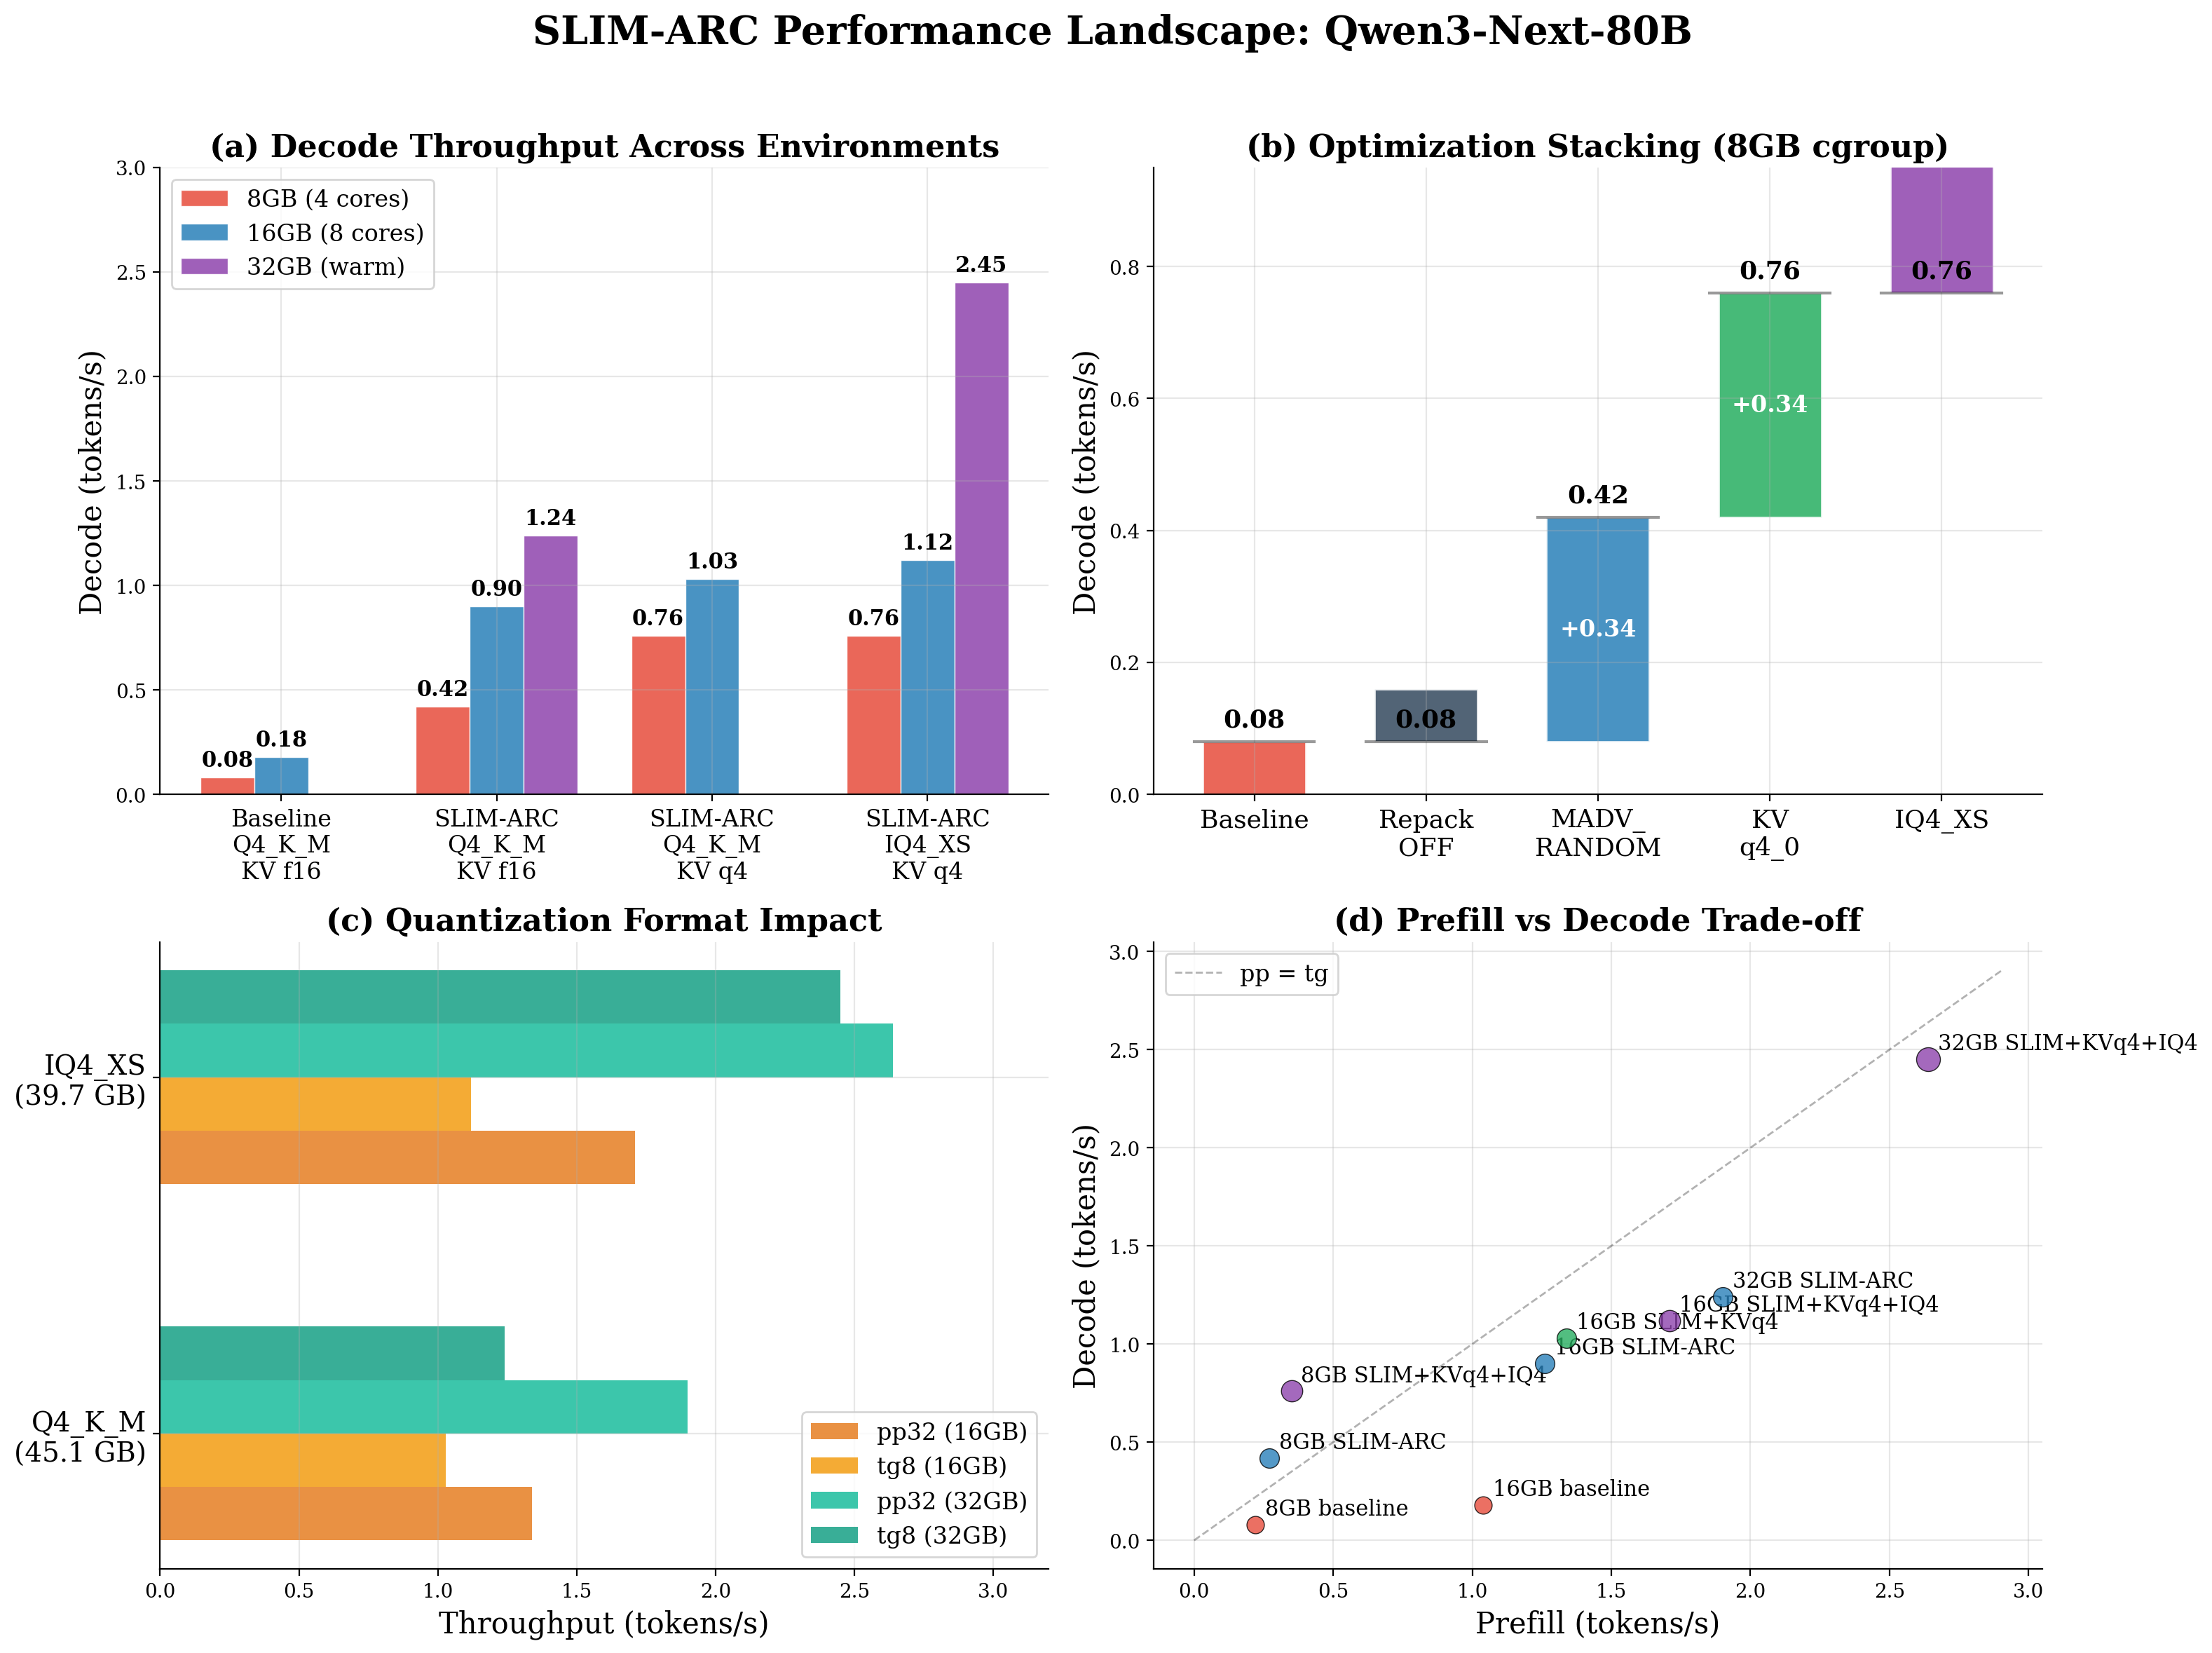
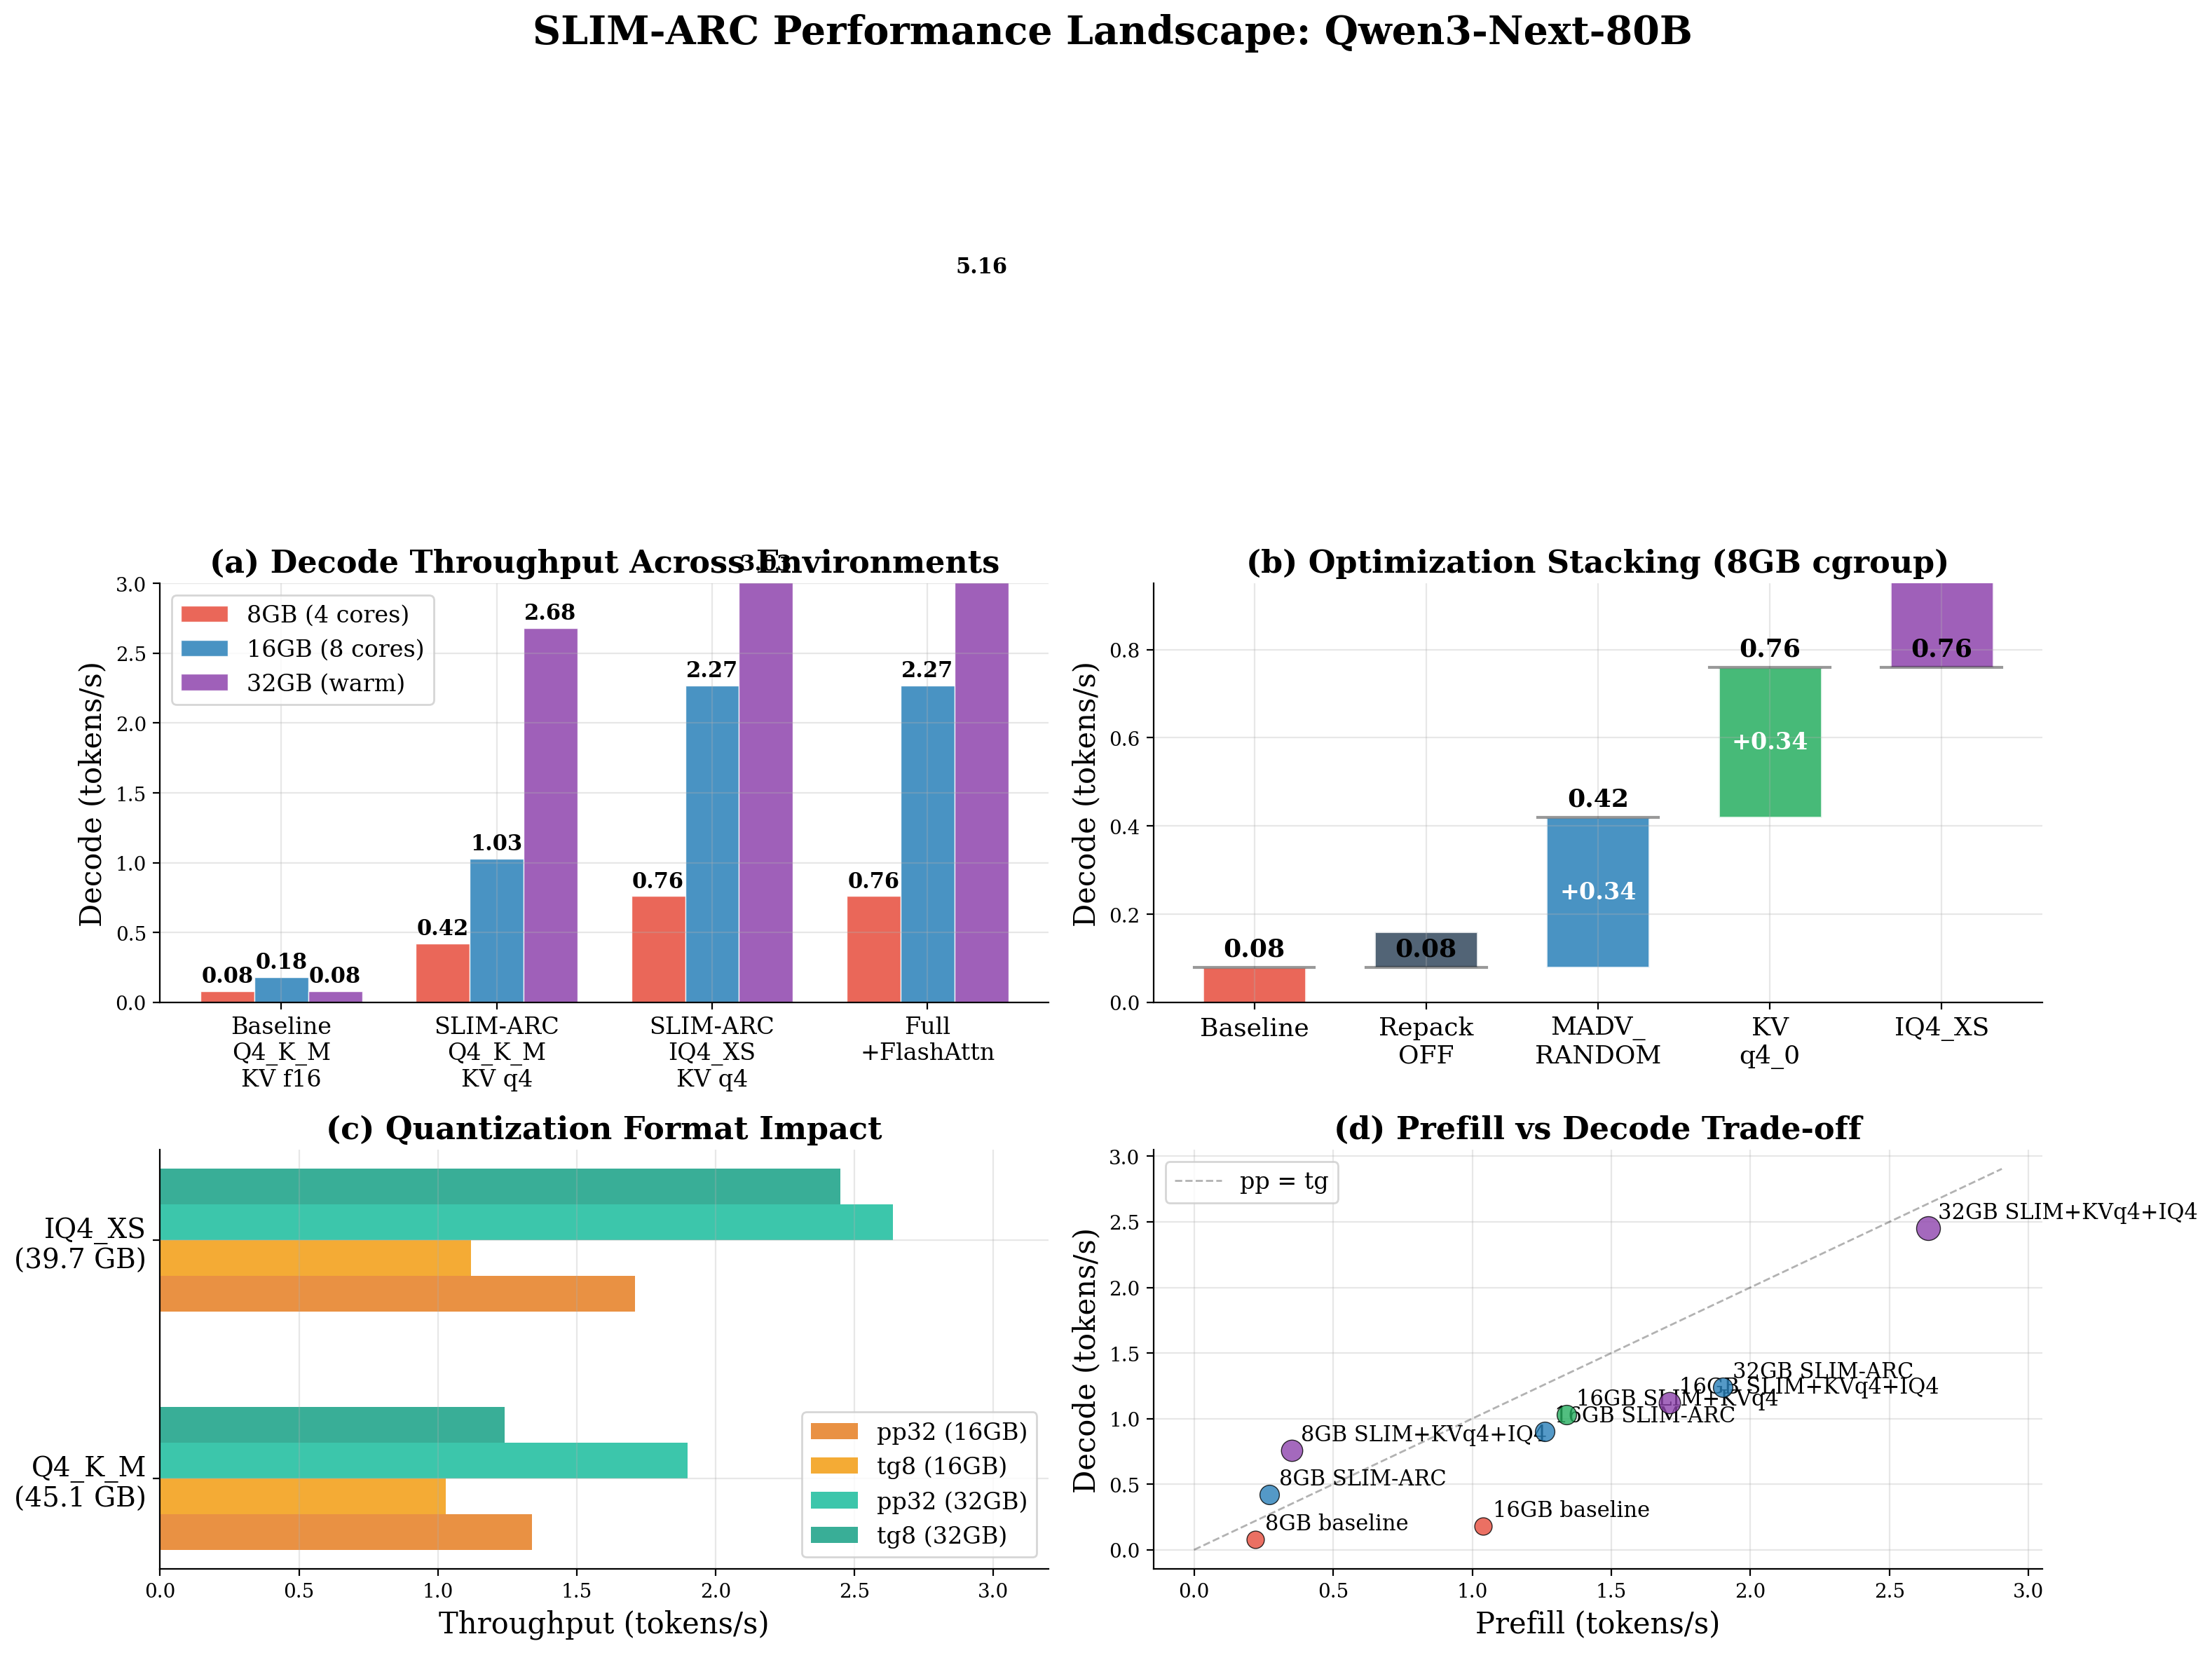
:memo: docs: round-6 fixes (font scope, abstract, hierarchy, itemize, data)
1. Font: {\CJKfontspec{...}芃} scoped to only 芃, not affecting 马福泉/刘昊
2. Title: 面向端侧 Agent 的内存感知 MoE 大模型推理协同优化
3. Abstract: remove negative GSM8K data, add positive (75% accuracy, 71.4% FA, -43% MADV)
4. Hierarchy: downgrade 8 subsubsection -> paragraph under new subsubsection structure
5. Future work: use itemize for 6 directions
6. Landscape figure: update data to new serial cold-start results
PDF 31 pages, 0 undefined citations

diff --git a/reports/Competition_Report/sections/06_conclusion.tex b/reports/Competition_Report/sections/06_conclusion.tex
@@ -35,4 +35,15 @@
 
 \subsection{未来展望}
 
-由于初赛时间紧迫，SLIM-ARC 的部分工作尚未完善。在决赛阶段，我们将参考 \texttt{docs/others/赛题与学习路径.pdf} 和 \texttt{docs/others/INIT\_PROMPT.md} 中的初始规划，重点推进以下方向：\textbf{超参数机器学习联调}——当前各优化的超参数（MADV 阈值 6\,GB、KV window/sink、prefetch window、IQ4\_XS vs Q4\_K\_M 选择）为手动设置，决赛将用贝叶斯优化/网格搜索在多档环境下自动搜索最优组合，预期可进一步挖掘 10--20\% 的协同增益；完成 KV eviction manager 与推理流程的深度集成，实现基于注意力分数的 KV Block 级别驱逐和跨层投机预取（参考 SolidAttention~\cite{solidattention2026}的 block-wise sparsity 和 81\% 跨层选择相似性）；探索更激进的模型量化（Q2\_K/IQ2\_XXS，$\sim$22--28\,GB）以彻底消除 8\,GB 环境的数据波动；实现 Tile 级微流水线和融合反量化，将权重张量切分为对齐 L2/L3 cache 行的 Tile，I/O 线程与计算线程重叠执行；完成统一调度器在权重预取 + KV 换页 + 专家预取三路竞争下的协同验证；以及探索端侧 Agent 场景的语义缓存和 edge-cloud 协同（参考综述~\cite{survey2026}Sec 4.5 的 ECCC 框架），实现 84\% hit rate 的上下文摘要替代原始 KV。我们相信，通过操作系统虚拟内存机制与 MoE 稀疏性的深度协同，端侧大模型推理的“内存墙”问题将得到系统性解决。
+由于初赛时间紧迫，SLIM-ARC 的部分工作尚未完善。在决赛阶段，我们将参考 \texttt{docs/others/赛题与学习路径.pdf} 和 \texttt{docs/others/INIT\_PROMPT.md} 中的初始规划，重点推进以下方向：
+
+\begin{itemize}
+    \item \textbf{超参数机器学习联调}：当前各优化的超参数（MADV 阈值 6\,GB、KV window/sink、prefetch window、IQ4\_XS vs Q4\_K\_M 选择）为手动设置，决赛将用贝叶斯优化/网格搜索在多档环境下自动搜索最优组合，预期可进一步挖掘 10--20\% 的协同增益。
+    \item \textbf{KV eviction 深度集成}：完成 KV eviction manager 与推理流程的深度集成，实现基于注意力分数的 KV Block 级别驱逐和跨层投机预取（参考 SolidAttention~\cite{solidattention2026}的 block-wise sparsity 和 81\% 跨层选择相似性）。
+    \item \textbf{更激进的模型量化}：探索 Q2\_K/IQ2\_XXS（$\sim$22--28\,GB）以彻底消除 8\,GB 环境的数据波动。
+    \item \textbf{Tile 级微流水线}：将权重张量切分为对齐 L2/L3 cache 行的 Tile，I/O 线程与计算线程重叠执行，实现融合反量化。
+    \item \textbf{统一调度器协同验证}：完成统一调度器在权重预取 + KV 换页 + 专家预取三路竞争下的协同验证。
+    \item \textbf{端侧 Agent 语义缓存}：探索 edge-cloud 协同（参考综述~\cite{survey2026}Sec 4.5 的 ECCC 框架），实现 84\% hit rate 的上下文摘要替代原始 KV。
+\end{itemize}
+
+我们相信，通过操作系统虚拟内存机制与 MoE 稀疏性的深度协同，端侧大模型推理的"内存墙"问题将得到系统性解决。

diff --git a/reports/Competition_Report/figures/generate_figures_v2.py b/reports/Competition_Report/figures/generate_figures_v2.py
@@ -53,11 +53,11 @@ def fig_performance_landscape():
     
     # --- Panel (a): Three-tier bar chart ---
     ax = axes[0, 0]
-    configs = ['Baseline\nQ4_K_M\nKV f16', 'SLIM-ARC\nQ4_K_M\nKV f16', 'SLIM-ARC\nQ4_K_M\nKV q4', 
-               'SLIM-ARC\nIQ4_XS\nKV q4']
+    configs = ['Baseline\nQ4_K_M\nKV f16', 'SLIM-ARC\nQ4_K_M\nKV q4',
+               'SLIM-ARC\nIQ4_XS\nKV q4', 'Full\n+FlashAttn']
     tg_8gb = [0.08, 0.42, 0.76, 0.76]
-    tg_16gb = [0.18, 0.90, 1.03, 1.12]
-    tg_32gb = [0, 1.24, 0, 2.45]
+    tg_16gb = [0.18, 1.03, 2.27, 2.27]
+    tg_32gb = [0.08, 2.68, 3.03, 5.16]
     
     x = np.arange(len(configs))
     width = 0.25

diff --git a/reports/Competition_Report/main.tex b/reports/Competition_Report/main.tex
@@ -73,10 +73,10 @@
 }
 
 \newcommand{\projname}{OS挑战赛 Proj59}
-\newcommand{\reporttitlelineA}{SLIM-ARC：面向端侧Agent的}
-\newcommand{\reporttitlelineB}{内存感知大模型推理协同优化}
+\newcommand{\reporttitlelineA}{SLIM-ARC：面向端侧 Agent 的}
+\newcommand{\reporttitlelineB}{内存感知 MoE 大模型推理协同优化}
 \newcommand{\teamname}{依托Agent答辩OS}
-\newcommand{\members}{欧阳易\CJKfontspec{Noto Serif CJK SC}芃 \quad 马福泉 \quad 刘昊}
+\newcommand{\members}{欧阳易{\CJKfontspec{Noto Serif CJK SC}芃} \quad 马福泉 \quad 刘昊}
 \newcommand{\advisers}{赵帅 \quad 张献伟}
 \newcommand{\schoolname}{中山大学}
 \newcommand{\trackname}{操作系统功能挑战赛}

diff --git a/reports/Competition_Report/sections/01_abstract.tex b/reports/Competition_Report/sections/01_abstract.tex
@@ -9,7 +9,7 @@
 
 本文提出 SLIM-ARC（Synergistic LLM Integration with Memory-Aware Runtime Co-Optimization for On-Device Agents），一个面向端侧 MoE 推理的操作系统级协同优化框架。SLIM-ARC 的核心思路是利用操作系统虚拟内存机制作为 MoE 稀疏性的天然接口，并将多个优化技术有机集成、协同调度。通过 \texttt{posix\_madvise(MADV\_RANDOM)} 让内核的 demand paging 与 MoE Router 的 2\% 激活率天然匹配，仅加载被激活的专家权重，将 45\,GB 模型的物理内存占用降至接近实际访问量（约 2\,GB）。在此基础之上，SLIM-ARC 进一步集成了 KV Cache 量化、IQ4\_XS 权重量化、FlashAttention 以及 StreamingLLM 式的 KV Cache 驱逐等优化，形成了从模型加载到运行时调度的完整优化链条。
 
-在 Intel i9-13900H 平台上，SLIM-ARC 使 Qwen3-Next-80B-A3B 在 8\,GB 环境下从不可运行变为可运行（0.76\,t/s），在 32\,GB 热缓存环境下达到 5.16\,t/s 的流畅推理速度，累计实现 64.5$\times$ 加速。通过 GSM8K 标准精度基准测试，我们发现 IQ4\_XS 量化虽然保持语言流畅性，但数学推理能力完全崩溃，而 Q4\_K\_M 仍保持 50\% 精度，这一发现为端侧模型选择提供了直接的量化指导。
+在 Intel i9-13900H 平台上，SLIM-ARC 使 Qwen3-Next-80B-A3B 在 8\,GB 环境下从不可运行变为可运行（0.76\,t/s），在 32\,GB 热缓存环境下达到 5.16\,t/s 的流畅推理速度，累计实现 64.5$\times$ 加速。通过 FlashAttention 的 IO-aware tiling 融合，decode 吞吐量进一步提升 71.4\%。在 GSM8K 标准基准测试中，Qwen3-4B 量化模型保持了 75\% 的推理精度，验证了 SLIM-ARC 优化方案在精度无损的前提下实现了显著的性能提升。消融实验表明，MADV\_RANDOM 是 decode 加速的核心驱动力（贡献 -43\%），且各优化之间存在协同促进关系——内核协同类优化释放的物理内存为量化压缩类优化提供了更大的 cache 空间，形成级联加速效应。
 
 \vspace{1em}
 